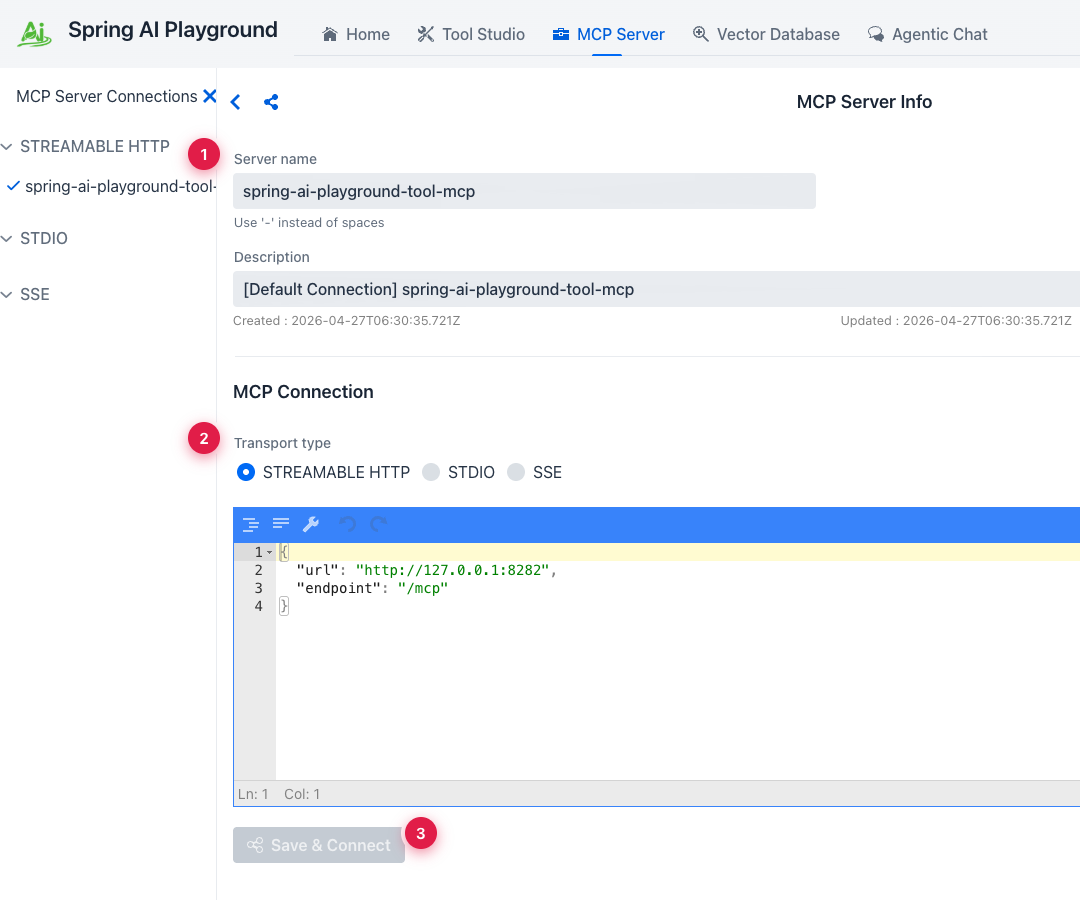
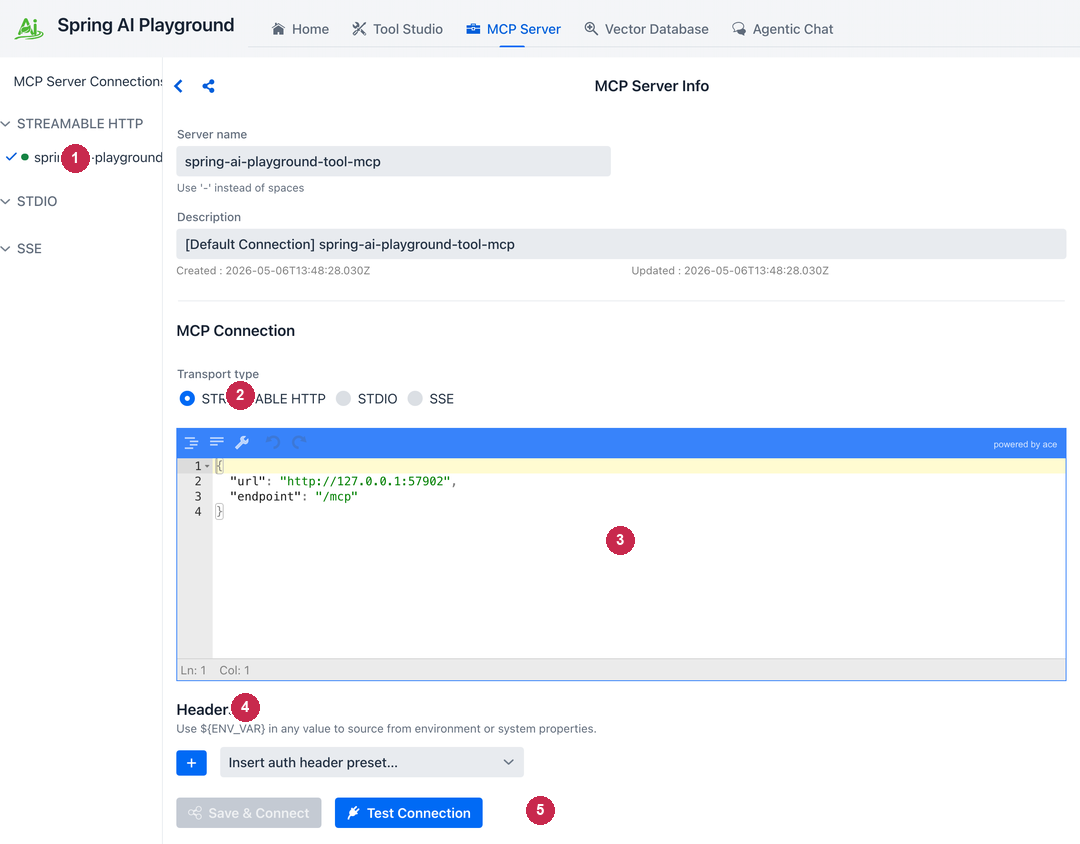
docs: refresh MCP Server features and Tutorial 2 for M5 redesign

diff --git a/docs/features.md b/docs/features.md
@@ -252,29 +252,96 @@ The modern Streamable HTTP transport formalized in the MCP v2025-03-26 specifica
 
 That modern transport replaces the older split HTTP-plus-SSE mental model with a simpler single endpoint, while still preserving compatibility value for STDIO and older integrations.
 
+#### Live status in the sidebar
+
+Each connection in the left rail carries a colored dot that reflects its last health check: **green** for OK, **gray** for offline (not connected), and **red** for an error returned during initialization or a recent ping. The dot updates as the playground reconnects or re-pings, so a connection that drops mid-session is visible without opening the inspector.
+
+![Sidebar with a connected server showing the OK status dot](assets/images/tutorials/tutorial-2-sidebar-status.png){ width="320" }
+
+*① the green dot next to a server name means the most recent ping succeeded — it goes red if the server returned an error and gray when nothing has connected yet.*
+
+#### Test Connection without disturbing live clients
+
+The config form has a **Test Connection** button next to **Save & Connect**. It spins up a transient sync MCP client, runs `initialize` and a one-shot `listTools`, then disposes the client — without touching the running connection map. Use it to validate a config change against a remote server before saving (which would otherwise replace the live client and might briefly drop tool availability in chat).
+
+#### Custom HTTP headers and `${ENV_VAR}` substitution
+
+HTTP and SSE connections both expose a single **Headers** section in the config form, edited as key/value rows. The same row layout drives the auth-preset dropdown — picking **Authorization (Bearer Token)**, **Authorization (Basic Auth)**, or **API Key Header** inserts a templated row whose value you fill in.
+
+Header values, STDIO `env` values, and any name listed in `requiredEnv` accept `${VAR}` placeholders that resolve from the OS environment at connect time (with a JVM system-property fallback). That keeps secrets out of the saved JSON: the persisted file stores `${OPENAI_API_KEY}` literally, and the actual key only enters memory when the connection is brought up. A missing reference throws at connect time so the inspector can surface it instead of silently sending an empty header.
+
+![Auth header preset dropdown showing Bearer Token, Basic Auth, API Key, and OAuth 2.1 options](assets/images/tutorials/tutorial-2-auth-preset.png)
+
+*① the **+** button adds a blank header row. ②③④ pick a templated header (Bearer / Basic / API Key) and only the value is left for you to fill in. ⑤ switches the form to the dedicated [OAuth 2.1](#oauth-21-authorization-code) sub-form instead of an inline header.*
+
+### OAuth 2.1 Authorization Code
+
+Some MCP servers expect an OAuth 2.1 Authorization Code flow rather than a static bearer token. Picking **OAuth 2.1 Authorization Code (configure)** from the auth preset opens a dedicated sub-form on the connection.
+
+![OAuth 2.1 sub-form with Client ID, Issuer URI, Scopes, Advanced details, Redirect URI, and Authorize button](assets/images/tutorials/tutorial-2-oauth-subform.png)
+
+*① the OAuth section, opened from the auth preset dropdown. ② **Client ID** (required) and **Issuer URI** — the issuer alone is enough for OIDC discovery to auto-resolve the authorization and token endpoints. ③ **Scopes** are comma-separated; leave blank to inherit the issuer's defaults. ④ **Advanced** discloses manual `authorization_uri` / `token_uri` / client-secret / client auth method overrides for non-OIDC providers. ⑤ the **Redirect URI** the playground listens on — register this URI as an allowed redirect on the issuer side. ⑥ **Authorize** opens your system browser to grant access — click it after **Save & Connect** records the registration.*
+
+The flow has three observable states:
+
+- **Configured** — Save & Connect persists the OAuth registration but does not connect yet (no token).
+- **AWAITING_AUTHORIZATION** — clicking **Authorize** opens the system browser to the issuer's consent screen and the connection sits in this state until the redirect lands. The Home dashboard surfaces a counter so half-finished authorizations don't get lost.
+- **Connected** — once the redirect completes, the playground exchanges the code for tokens and the connection comes up like any other.
+
+Tokens are kept in an encrypted file store under `${user.home}/spring-ai-playground/mcp/oauth-tokens/`. The encryption key is derived from a per-install salt plus the host's `user.home`, so copying the directory to another machine doesn't disclose tokens to that host. Refresh tokens are used transparently — once you authorize, the playground keeps the connection live across restarts as long as the issuer accepts the refresh.
+
+!!! tip "Use `${ENV_VAR}` for client secrets"
+    The OAuth sub-form's **Client secret** field accepts placeholders the same way header values do. Storing `${SOME_OAUTH_CLIENT_SECRET}` in the form keeps the secret out of the persisted JSON; the actual value is read from the OS environment at connect time.
+
 ### MCP Inspector
 
-The Inspector is the practical center of the MCP screen.
+The Inspector is the practical center of the MCP screen — once a connection is up, it lets you exercise every primitive the server (or your client) exposes, isolated from chat.
 
-It lets you:
+![Inspector tab strip — Tools, Resources, Prompts, Ping, Notifications, Roots, Sampling, Elicitation](assets/images/tutorials/tutorial-2-inspector-tabs.png)
 
-- browse the available tools on a connection
-- inspect tool names and descriptions
-- review argument schemas
-- execute tools directly
-- inspect results and execution history
+The eight tabs split cleanly into **server primitives** (Tools, Resources, Prompts, Ping, Notifications) and **client primitives** (Roots, Sampling, Elicitation — these are inverted: the *server* asks the playground to act as the client). The split matters because client-side primitives are how a server drives interactive behavior back into the playground, not how you call the server.
 
-That means MCP Server is not just a configuration page. It is an interactive validation surface.
+#### Tools
 
-This matters because tool integration work is much easier when schemas and execution behavior are validated before those tools are introduced into a longer-running agentic conversation.
+Each tool is a full-width card. The card shows the tool name, the description shown to the model, any tool annotations the server published as badges (read-only / destructive / idempotent / open-world hint), an inputs panel typed by JSON Schema (boolean / number / array / object / enum render with the matching control), and a **Run** button that calls the tool through the live transport.
+
+![Tools tab with the new card layout — search, run buttons, JSON-Schema-typed inputs, parameter rows](assets/images/tutorials/tutorial-2-inspector-tools.png)
+
+*① the selected tab — Tools is the default. ② all eight tabs run side by side. ③ a search input filters the cards by name or description, with the count alongside. ④ the **Run** play button on each card calls the tool through the actual transport (not just a sandbox). ⑤ the tool name and ⑥ its parameter schema, rendered as the appropriate input control.*
+
+The result of a run lands inline in the same card: a status header (OK / ERROR badge, tool name, elapsed ms, timestamp), a **REQUEST** section, a **RESPONSE** section, a **Raw** toggle that swaps the cleaned response for the JSON-RPC envelope, a **Copy** action with toast feedback, and a dismiss button. That keeps the entire request → response → diagnose loop in one place per tool.
+
+#### Resources, Prompts, Ping, Notifications
+
+The other server-primitive tabs follow the same per-card pattern with the type-appropriate fields:
+
+- **Resources** lists static resources and resource templates the server exposes; selecting one fetches its content into an inline panel. Templates accept parameters via the same JSON-Schema-typed inputs the Tools tab uses.
+- **Prompts** lists named prompts; you can fill in arguments and preview the rendered messages the server would return to the model.
+- **Ping** sends a one-shot `ping` request and reports round-trip latency — a quick liveness check independent of any tool.
+- **Notifications** is a feed of inbound server-initiated notifications (`tools/list_changed`, `resources/updated`, `prompts/list_changed`, log messages) with timestamps. It's the easiest way to see whether a server actually pushes change notifications, since chat doesn't surface them.
+
+![Resources tab with the empty-state message — same layout reused for prompts, ping, and notifications](assets/images/tutorials/tutorial-2-inspector-resources-empty.png)
+
+*① clicking another tab swaps the inspector content but keeps the connection. ② tabs that have nothing to show say so explicitly — useful when probing a new server's capability surface.*
+
+#### Roots, Sampling, Elicitation (client primitives)
+
+These three are flipped: the server initiates and the playground (acting as the MCP client) responds. The Inspector exposes them so you can see and answer those server-side requests instead of having them disappear into the void:
+
+- **Roots** is the list of file/URI roots the playground advertises to the server when it asks `roots/list`. The default is empty; add roots here when a server needs to know which directories or URIs you've opted to expose.
+- **Sampling** is what fires when a server calls `sampling/createMessage` — it's the server asking your client (the playground) to run a model turn on its behalf. The tab logs the request with its messages and model preferences and lets you approve or reject it; approved requests run through the playground's configured chat model.
+- **Elicitation** is what fires when a server calls `elicitation/create` to ask the user a question (a typed input form) mid-conversation. The tab renders the form per the server's schema, captures your answer, and ships it back as the response.
+
+Together with Notifications, these tabs make the playground a useful place to *develop* MCP servers, not just consume them — you can see exactly when your server emits a notification or asks the client to do something.
 
 ### Getting Started With MCP
 
-1. configure an MCP connection
-2. inspect the available tools
-3. review the argument schemas
-4. execute tools directly
-5. use the validated connection later in Agentic Chat
+1. configure an MCP connection (or use the built-in one)
+2. inspect the available tools, resources, and prompts in the Inspector
+3. review the argument schemas with the JSON-Schema-typed inputs
+4. execute tools / fetch resources / preview prompts directly
+5. for OAuth-protected servers, complete the **Authorize** browser handoff once
+6. use the validated connection later in Agentic Chat
 
 ### Relationship to Tool Studio
 

diff --git a/docs/tutorials.md b/docs/tutorials.md
@@ -126,10 +126,10 @@ After the test passes, you'll see a confirmation banner. Tool name and descripti
 
 ## Tutorial 2 — Connect an External MCP Server
 
-**Time** 5 min · **Difficulty** ★☆☆ · **Surfaces** MCP Server
+**Time** 8 min · **Difficulty** ★★☆ · **Surfaces** MCP Server
 
 !!! abstract "Goal"
-    Add an external MCP server connection (Streamable HTTP, STDIO, or SSE), validate the schema in the inspector, and run a tool through it directly — *before* relying on it from chat.
+    Add an external MCP server connection (Streamable HTTP, STDIO, or SSE), wire up authentication if the server requires it, validate the schema in the Inspector, and run a tool through it directly — *before* relying on it from chat.
 
 ### Steps
 
@@ -137,13 +137,48 @@ After the test passes, you'll see a confirmation banner. Tool name and descripti
 2. Pick the transport type. **Streamable HTTP** is the modern default; STDIO is for proxy-style local processes (Claude Desktop's `mcp-remote`); SSE is the legacy HTTP+SSE shape.
 3. Fill in the connection name and the JSON config for your transport.
 
-![New MCP connection form with transport, name, and config](assets/images/tutorials/tutorial-2-connection-form.png)
-*① pick a transport (Streamable HTTP is the default; STDIO and SSE are also supported), ② name + description, ③ **Save & Connect** validates and registers the connection.*
+![New MCP connection form with status sidebar, transport, JSON config, headers, and connect buttons](assets/images/tutorials/tutorial-2-connection-form.png)
+*① the sidebar shows a colored status dot per connection (green OK · gray offline · red error). ② transport — Streamable HTTP is the modern default; STDIO and SSE are also supported. ③ JSON connection config (URL + endpoint, or stdio command + args). ④ **Headers** section, with a `${ENV_VAR}` substitution hint — values like `${MY_API_KEY}` resolve from the OS environment at connect time. ⑤ **Save & Connect** registers the connection; **Test Connection** spins up a transient client to validate the config without touching the live one.*
 
-4. Once connected, scroll to **MCP Inspector** to browse tools and run them directly.
+#### Add an Authorization header
 
-![Inspector listing tools for the connected server](assets/images/tutorials/tutorial-2-inspector-tools.png)
-*① the **MCP Inspector** is the same panel for built-in and external connections — schemas, descriptions, and a `Call Tool` action per row.*
+Many remote MCP servers require an API key or bearer token. Use the **Insert auth header preset…** dropdown above the buttons to drop in a templated row instead of hand-typing the header name.
+
+![Auth header preset dropdown showing the four built-in templates](assets/images/tutorials/tutorial-2-auth-preset.png)
+*① the **+** button adds a blank header row. ② **Authorization (Bearer Token)** templates `Authorization: Bearer <value>` — fill in the token. ③ **Authorization (Basic Auth)** templates a base64 user:pass row. ④ **API Key Header** templates a custom header (e.g. `X-API-Key`). ⑤ **OAuth 2.1 Authorization Code (configure)** swaps in the dedicated OAuth sub-form covered below.*
+
+!!! tip "Don't paste secrets into the form"
+    The Headers section accepts `${ENV_VAR}` placeholders — set the secret in your shell or the desktop launcher's Environment Variables, then put `${MY_API_KEY}` in the form. The persisted JSON only stores the placeholder; the actual key is resolved at connect time. The same syntax works for STDIO `env` values and `requiredEnv` lists.
+
+#### OAuth 2.1 servers (Authorization Code flow)
+
+For servers that expect an OAuth dance instead of a static token (Atlassian's MCP server is a common example), pick **OAuth 2.1 Authorization Code (configure)** from the preset dropdown. The Headers section is replaced with a dedicated OAuth sub-form.
+
+![OAuth 2.1 sub-form with Client ID, Issuer URI, Scopes, Advanced, Redirect URI, and Authorize button](assets/images/tutorials/tutorial-2-oauth-subform.png)
+*① the OAuth sub-form, opened from the auth preset dropdown. ② **Client ID** (required) and **Issuer URI** — the issuer alone is enough for OIDC discovery (`.well-known`) to auto-resolve the authorization and token endpoints. ③ **Scopes** are comma-separated; leave blank to inherit the issuer's defaults. ④ **Advanced** discloses manual `authorization_uri` / `token_uri` / client-secret / client auth method overrides for non-OIDC providers. ⑤ the **Redirect URI** the playground listens on — register this URI as an allowed redirect on the issuer side. ⑥ **Authorize** opens your system browser to the consent screen — click it after **Save & Connect**.*
+
+The flow has three observable states:
+
+1. **Save & Connect** records the OAuth registration but doesn't connect yet (no token).
+2. Click **Authorize** — the connection moves to **AWAITING_AUTHORIZATION** and your system browser opens to the issuer. The Home dashboard adds an awaiting-auth counter so you don't lose track of half-finished flows.
+3. After you grant access, the redirect lands at the playground's callback URL, the code is exchanged for tokens, and the connection comes up like any other.
+
+Tokens are encrypted on disk under `~/spring-ai-playground/mcp/oauth-tokens/`. Refresh happens transparently — once you authorize once, the connection survives playground restarts as long as the issuer accepts the refresh.
+
+#### Validate in the Inspector
+
+4. Once connected (the sidebar dot turns green), scroll to **MCP Inspector**. The tab strip exposes everything the server speaks — *and* a few client-side primitives the server can call back into.
+
+![Inspector tab strip — Tools, Resources, Prompts, Ping, Notifications, Roots, Sampling, Elicitation](assets/images/tutorials/tutorial-2-inspector-tabs.png)
+
+The eight tabs split into **server primitives** the server exposes (Tools, Resources, Prompts, Ping, Notifications) and **client primitives** the server can ask *your* playground to handle (Roots, Sampling, Elicitation). For most "use this server's tools in chat" workflows you'll spend your time on Tools and Resources; the others are mostly useful when developing or debugging an MCP server.
+
+5. Click **Tools**. Each tool is a full-width card with its description, schema-typed inputs, and a **Run** button that calls the tool through the live transport.
+
+![Tools tab with the new card layout — search, run, schema-typed inputs](assets/images/tutorials/tutorial-2-inspector-tools.png)
+*① the selected tab — Tools is the default. ② all eight tabs are visible side by side. ③ search filters cards by name or description, with the live count. ④ the **Run** button on each card calls the tool through the actual transport (not just a sandbox). ⑤ the tool name. ⑥ parameter rows rendered per the JSON Schema (string / number / boolean / enum each get the matching control).*
+
+6. Fill in any required parameters and click **Run**. The result lands inline in the same card — a status header (OK / ERROR, elapsed ms, timestamp), a **REQUEST** section, a **RESPONSE** section, and a **Raw** toggle that swaps in the JSON-RPC envelope. Use **Copy** to grab the response, or the dismiss button to clear the panel.
 
 !!! tip "Validate here, not in chat"
     Tools that fail in MCP Inspector will fail in Agentic Chat too — but the chat error message is wrapped in the agent's reasoning trace and harder to debug. Save yourself a turn: run every new tool through the inspector once before letting a model invoke it.
